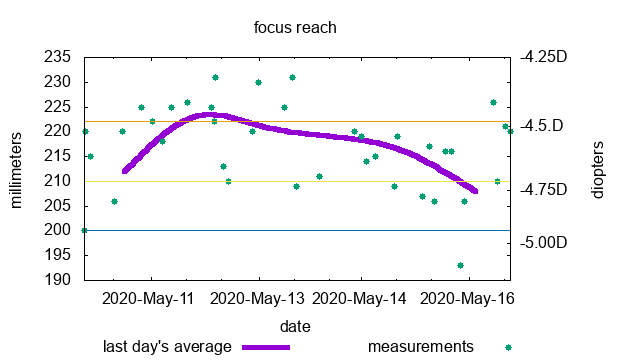
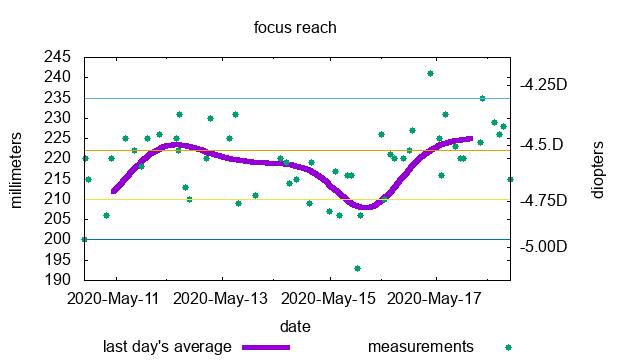
add autorefractor results to the readme
and new data while at it.

diff --git a/focusreach/readme.md b/focusreach/readme.md
@@ -50,3 +50,12 @@ here is my progress over time:
 ![graph of the data](plot.png)
 
 i generate the above graph using the plot utility from this repo.
+
+for reference here are my autorefactor results from optometrists.
+this data is not included in the above graph.
+i don't really know my previous data so i omitted it rather than guessing it.
+
+```
+2019-Feb-01 sph:-4.75,-4.75 pd:33,33
+2019-Mar-20 started wearing -4.25D lenses
+```
